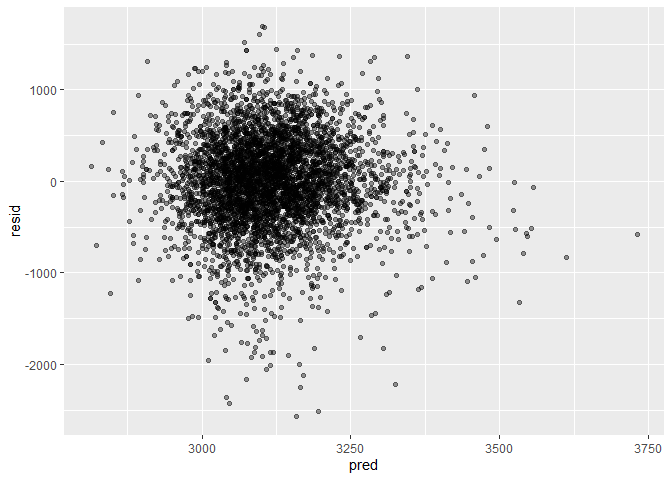
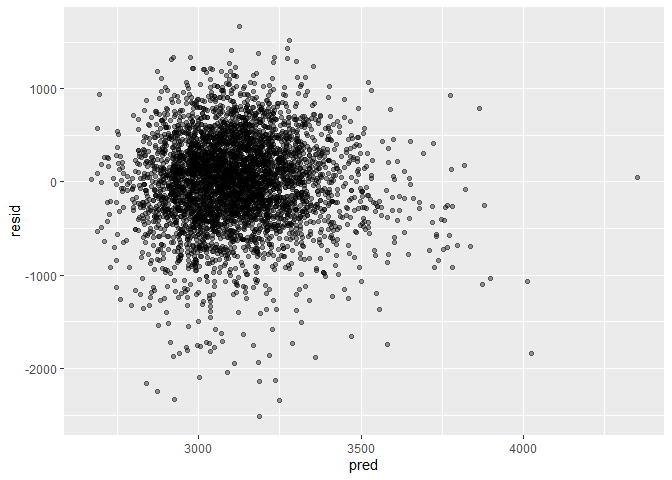
bootstrap and make plots for r^2 and log(β_0∗β_1)

diff --git a/p8105_hw6_yj2622.md b/p8105_hw6_yj2622.md
@@ -136,9 +136,9 @@ bwt_df =
 bwt_data %>% 
   mutate(
     babysex = as.factor(babysex),
-    frace = as.factor(babysex),
-    malform = as.factor(babysex),
-    mrace = as.factor(babysex)
+    frace = as.factor(frace),
+    malform = as.factor(malform),
+    mrace = as.factor(mrace)
   )
 ```
 
@@ -159,15 +159,26 @@ bwt_df %>%
 There is no NAs in this dataset
 
 Then I try to build a linear model based on the dataset, which examines
-the association between baby birth weight and mother’s pre-pregnancy
-BMI, age and average number of cigarettes she smokes per day during
+the association between baby birth weight and mother’s age, weight at
+delivery and average number of cigarettes she smokes per day during
 pregnancy.
 
 ``` r
-mod = lm(bwt ~ ppbmi + momage + smoken, data = bwt_df)
+mod = lm(bwt ~ momage + smoken + delwt, data = bwt_df)
+broom::tidy(mod)
+```
 
+    ## # A tibble: 4 x 5
+    ##   term        estimate std.error statistic   p.value
+    ##   <chr>          <dbl>     <dbl>     <dbl>     <dbl>
+    ## 1 (Intercept)  1863.      60.0       31.0  4.50e-191
+    ## 2 momage         16.1      1.91       8.47 3.42e- 17
+    ## 3 smoken         -6.82     0.996     -6.84 8.79e- 12
+    ## 4 delwt           6.54     0.332     19.7  1.13e- 82
+
+``` r
 bwt_df %>% 
-  select(bwt ,ppbmi, momage, smoken) %>% 
+  select(bwt, momage, smoken, delwt) %>% 
   add_residuals(model = mod) %>% 
   add_predictions(model = mod) %>% 
   ggplot(aes(x = pred, y = resid)) +
@@ -199,7 +210,7 @@ broom::tidy(mod_1)
     ## 3 gaweeks         27.0      1.72      15.7 2.36e-54
 
 ``` r
-mod_2 = lm(bwt ~ bhead*blength + bhead*babysex + blength*babysex + bhead*blength*babysex, data = bwt_df)
+mod_2 = lm(bwt ~ bhead*blength*babysex, data = bwt_df)
 broom::tidy(mod_2)
 ```
 
@@ -228,9 +239,9 @@ Fit models and obtain RMSE
 cv_df =
 cv_df %>% 
   mutate(
-    linear_mod_1 = map(.x = train, ~lm(bwt ~ ppbmi + momage + smoken, data = .x)),
+    linear_mod_1 = map(.x = train, ~lm(bwt ~ momage + smoken + delwt, data = .x)),
     linear_mod_2 = map(.x = train, ~lm(bwt ~ blength + gaweeks, data = .x)),
-    linear_mod_3 = map(.x = train, ~lm(bwt ~ bhead*blength + bhead*babysex + blength*babysex + bhead*blength*babysex, data = .x))
+    linear_mod_3 = map(.x = train, ~lm(bwt ~  bhead*blength*babysex, data = .x))
   ) %>% 
   mutate(
     rmse_mod_1 = map2_dbl(.x = linear_mod_1, .y = test, ~rmse(model = .x, data = .y)),
@@ -256,3 +267,106 @@ cv_df %>%
 ```
 
 ![](p8105_hw6_yj2622_files/figure-gfm/unnamed-chunk-12-1.png)<!-- -->
+
+## Problem 3
+
+Import the dataset
+
+``` r
+weather_df = 
+  rnoaa::meteo_pull_monitors(
+    c("USW00094728"),
+    var = c("PRCP", "TMIN", "TMAX"), 
+    date_min = "2017-01-01",
+    date_max = "2017-12-31") %>%
+  mutate(
+    name = recode(id, USW00094728 = "CentralPark_NY"),
+    tmin = tmin / 10,
+    tmax = tmax / 10) %>%
+  select(name, id, everything())
+```
+
+    ## Registered S3 method overwritten by 'hoardr':
+    ##   method           from
+    ##   print.cache_info httr
+
+    ## using cached file: C:\Users\jinyc\AppData\Local\cache/R/noaa_ghcnd/USW00094728.dly
+
+    ## date created (size, mb): 2020-10-01 23:25:20 (7.534)
+
+    ## file min/max dates: 1869-01-01 / 2020-09-30
+
+Make plot of tmax vs. tmin
+
+``` r
+weather_df %>% 
+  ggplot(aes(x = tmin, y = tmax)) +
+  geom_point() +
+  geom_smooth(method = "lm")
+```
+
+    ## `geom_smooth()` using formula 'y ~ x'
+
+![](p8105_hw6_yj2622_files/figure-gfm/unnamed-chunk-14-1.png)<!-- -->
+
+According to this plot, the points represetning lower t\_min and t\_max
+distributed more disperse around the fitted line.
+
+use `bootstrap` function to conduct repeated sampling and do analysis
+
+``` r
+weather_boot_results =
+weather_df %>% 
+  modelr::bootstrap(n = 5000, id = "strap_number") %>% 
+  mutate(
+    models = map(.x = strap, ~lm(tmax ~ tmin, data = .x)),
+    results_glance = map(models, broom::glance),
+    results_tidy = map(models, broom::tidy)
+  ) %>% 
+  select(strap_number, results_glance, results_tidy) %>% 
+  unnest(results_glance, results_tidy) %>% 
+  select(strap_number, r.squared, term, estimate) %>% 
+  pivot_wider(
+    everything(),
+    names_from = term,
+    values_from = estimate
+  ) %>% 
+  mutate(
+    log_estimate_multi = log(`(Intercept)`*tmin)
+  ) %>% 
+  select(-`(Intercept)`, -tmin)
+```
+
+    ## Warning: unnest() has a new interface. See ?unnest for details.
+    ## Try `df %>% unnest(c(results_glance, results_tidy))`, with `mutate()` if needed
+
+Make plot to see the distribution of r^2
+
+``` r
+weather_boot_results %>% 
+  ggplot(aes(x = r.squared)) +
+  geom_density()
+```
+
+![](p8105_hw6_yj2622_files/figure-gfm/unnamed-chunk-16-1.png)<!-- -->
+
+From the plot above we can see that the distribution of r^2 is
+left-skewed. Combined with the plot of tmax vs. tmin, I think that’s
+because some samples were drawn from points with lower t\_min and
+t\_max. These points have higher variance regrading the fitted line
+compared to other points. In this way, with bootstrap, the distribution
+of r^2 was fairly displayed.
+
+And make another plot to see the distribution of log(β\_0∗β\_1)
+
+``` r
+weather_boot_results %>% 
+  ggplot(aes(x = log_estimate_multi)) +
+  geom_density()
+```
+
+![](p8105_hw6_yj2622_files/figure-gfm/unnamed-chunk-17-1.png)<!-- -->
+
+Based on this plot, we can find that the distribution of log(β\_0∗β\_1)
+is also left-skewed. And the reason for it is the same as that for the
+distribution of r^2.
